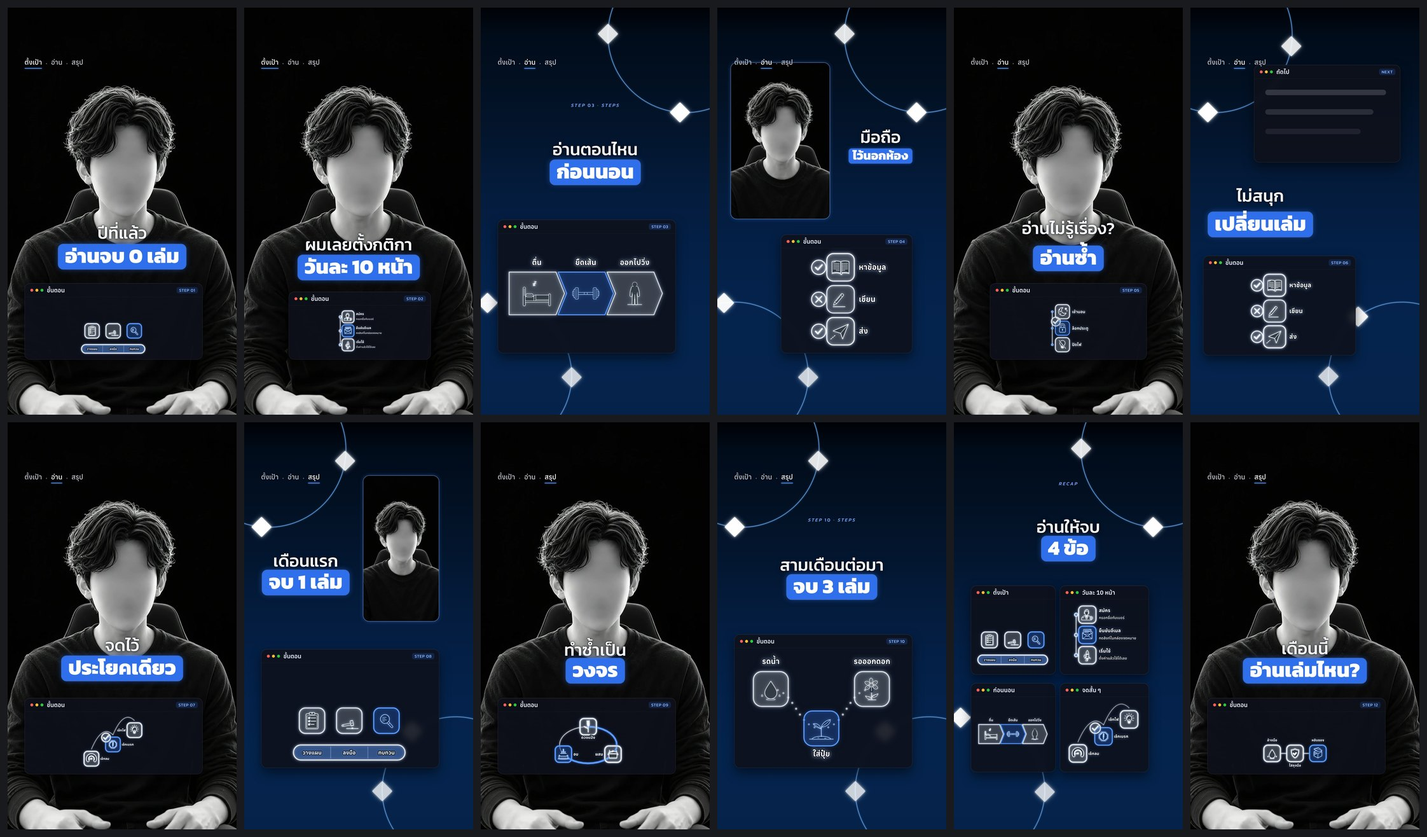
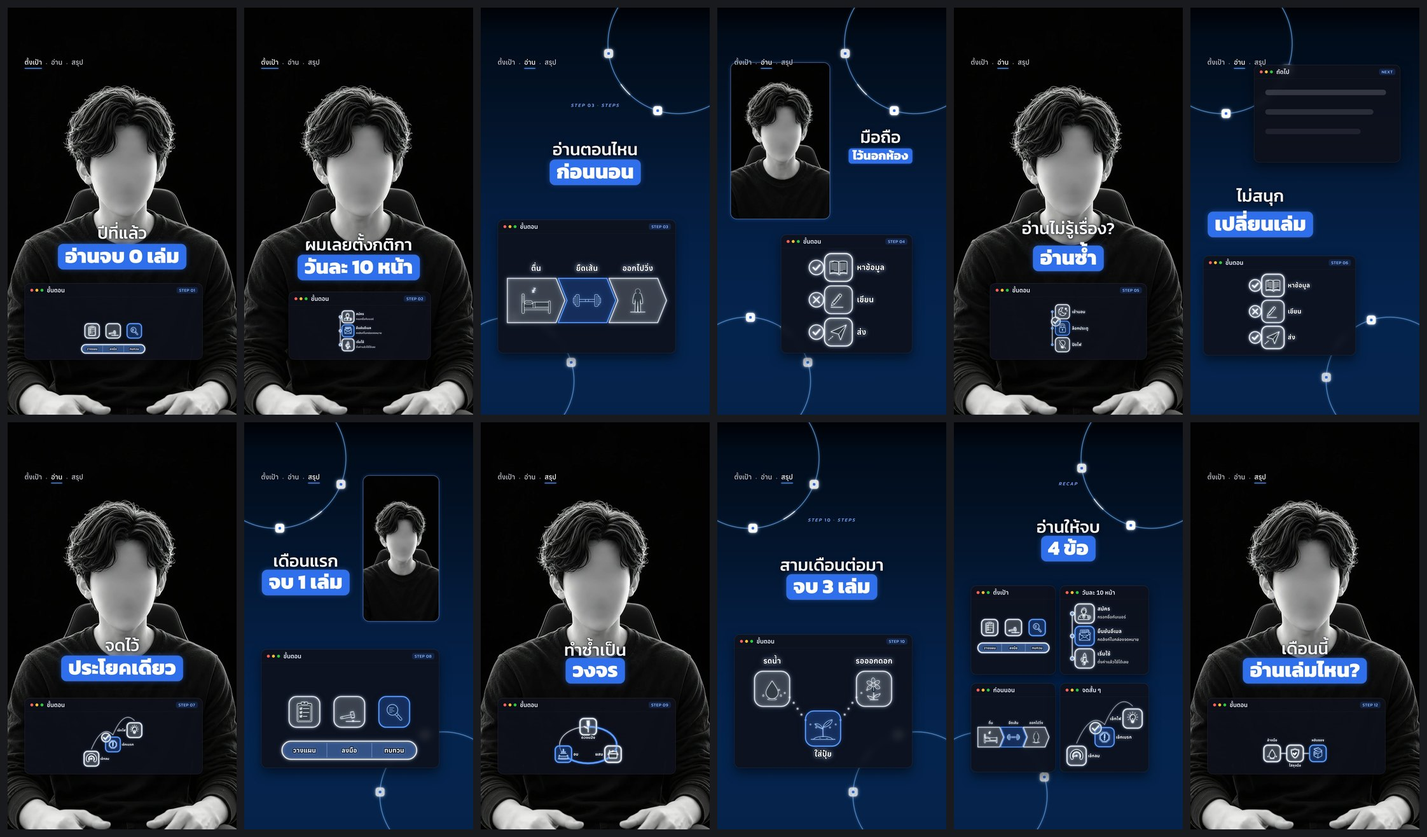
CutPack window style: our own rings, one line, a little faster
Friend copied the background picture from elsewhere and asked for new
rings ("ดีไซน์วงแหวนใหม่หน่อย"), then for a single line like before.
The black-to-navy gradient stays; each corner now has one glowing blue
ring with two white app-chips (blue centre, upright while turning) and
a short running light instead of the copied diamonds. Spin 1.5 -> 2.25
degrees a second (WIN.spin). Docs and library stills updated.

Claude-Session: https://claude.ai/code/session_01S8EfUBVsEbs9J3Zi2UQ7cq

diff --git a/cutpack/engine/uni/styles/window.js b/cutpack/engine/uni/styles/window.js
@@ -7,8 +7,8 @@
    1 frame    one of 12 layouts (WIN.layouts, named after Friend's shots): the speaker full screen with an app window at the hands,
               or a deep-blue screen with a big window, the speaker in a rounded frame beside a window, two windows in cascade, a recap
               of four. Between pictures the speaker talks with the words at the chest. A chapter bar sits top left on every shot.
-   2 surface  screens: near-black to navy, two blue arcs each carrying two big glowing white diamonds (Friend's background picture,
-              2026-11-18); the pictures sit in dark app windows (three dots, a title, a blue tag)
+   2 surface  screens: near-black to navy (Friend's background picture, 2026-11-18) with our own turning rings in two corners (a
+              glowing ring with white app-chips and a running light); the pictures sit in dark app windows (three dots, a title, a tag)
    3 drawing  the glow-line pictures: white lines, the lit part a blue outline (no solid fill), blue light
    4 colours  deep blue · near-black windows · white · one blue (#2F6FEB)
    5 words    a white lead (Kanit 500) + the key word white in a blue pill (Kanit 800); on screens a small spaced label above
@@ -50,15 +50,17 @@ const WIN = {
   en: {B01: 'NUMBER', B02: 'CHANGE', B03: 'COMPARE', B04: 'STEPS', B05: 'RIGHT WAY', B06: 'QUESTION', B07: 'WARNING', B08: 'GOAL',
     B09: 'TIMELINE', B10: 'PEOPLE', B11: 'MESSAGE', B12: 'CAUSE', B13: 'TIP', B14: 'REMEMBER', B15: 'YOUR TURN', B16: 'MEANING',
     B17: 'LIST', B18: 'STORY', B19: 'FEELING', B20: 'TOGETHER', B21: 'PLACE'},
-  /* the screens' background (Friend 2026-11-18, a picture of it: "ผมอยากได้ background แบบนี้"), measured on that picture (1080 × 1920):
-     near-black at the top to deep navy at the bottom, two thin blue arcs, each with two big white glowing diamonds sitting ON it.
-     Each arc [cx, cy, r, [angles of its diamonds, degrees]]; 0 = the picture as sent, 1 = the same mirrored (for screens whose frame
-     or back window covers the top right; its lower diamonds sit further along their arc, out of TikTok's buttons column). The arcs
-     turn very slowly, so the diamonds slide along them (the lower arc turns back, away from the buttons). */
+  /* the screens' background. The gradient was measured on a picture Friend sent (2026-11-18: "ผมอยากได้ background แบบนี้"): near-black
+     at the top to deep navy at the bottom. The rings are our own (Friend: "รูปนี้ผมไปก๊อปเขามาผมก็เลยอยากให้คุณดีไซน์วงแหวนใหม่หน่อย"):
+     per corner one glowing blue ring (one line, as before: "อยากให้มันเป็นเส้นเดียวมันอันเก่า") carrying two white app-chips (rounded
+     squares, as the windows) and a short running light. Each ring {cx, cy, r, chips: [angles], light: angle, dir}; 0 = top
+     right + bottom left, 1 = mirrored (screens whose frame or back window covers the top right; its lower chips sit left of TikTok's
+     buttons, x 920, and turn away from them). */
   decor: [
-    [[966, 129, 368, [176.2, 89.5]], [82, 1736, 349, [-93.8, 5.8]]],
-    [[114, 129, 368, [3.8, 90.5]], [998, 1736, 349, [238, 184]]],      // (its lower diamonds moved along the arc, left of the buttons: x 920)
+    [{cx: 930, cy: 170, r: 330, chips: [165, 100], light: 132, dir: 1}, {cx: 140, cy: 1760, r: 300, chips: [-80, -10], light: -45, dir: -1}],
+    [{cx: 150, cy: 170, r: 330, chips: [15, 80], light: 48, dir: 1}, {cx: 940, cy: 1760, r: 300, chips: [260, 190], light: 225, dir: -1}],
   ],
+  spin: 2.25,                                   // degrees a second (Friend: "หมุนให้เร็วกว่านี้อีกนิดนึง ... แค่เร็วกว่าเดิมนิดเดียว": 1.5 → 2.25)
 };
 const winInner = ([, , w, h]) => [22, 76, w - 44, h - 98];        // the picture inside a window (under its 64-high title bar)
 
@@ -94,8 +96,11 @@ STYLE('window', {
 .w-root{position:absolute;inset:0;--ink:#F2F6FC;--ac:#5B9BFF;--lw:5;--sd:#F2F6FC;--fl:rgba(14,18,28,.88);--text:#F2F6FC}
 .w-screen{background:linear-gradient(180deg,#000206 0%,#010c1a 7%,#021022 19%,#03152d 31%,#041b3b 44%,#041f45 56%,#04224b 69%,#05244d 81%,#05224a 100%);overflow:hidden}
 .w-arc{position:absolute}
-.w-ring{position:absolute;inset:0;border-radius:50%;border:4px solid #4F86C4;box-shadow:0 0 6px rgba(79,134,196,.55),inset 0 0 6px rgba(79,134,196,.45)}
-.w-dia{position:absolute;width:68px;height:68px;rotate:45deg;background:#fff;border-radius:4px;box-shadow:0 0 8px rgba(255,255,255,.95),0 0 24px rgba(215,232,255,.55)}
+.w-arc svg{position:absolute;inset:0;overflow:visible}
+.w-main{filter:drop-shadow(0 0 5px rgba(79,134,196,.75))}
+.w-light{filter:drop-shadow(0 0 6px rgba(225,238,255,.95))}
+.w-chip{position:absolute;width:42px;height:42px;background:#fff;border-radius:12px;box-shadow:0 0 8px rgba(255,255,255,.9),0 0 26px rgba(150,195,255,.6)}
+.w-chip::after{content:"";position:absolute;left:15px;top:15px;width:12px;height:12px;border-radius:4px;background:#2F6FEB}
 .w-win{position:absolute;border-radius:26px;background:rgba(13,17,27,.9);border:1.5px solid rgba(255,255,255,.14);
   box-shadow:0 22px 50px rgba(0,0,0,.5),inset 0 1px 0 rgba(255,255,255,.06);-webkit-backdrop-filter:blur(14px);backdrop-filter:blur(14px);overflow:hidden}
 .w-bar{position:absolute;left:0;right:0;top:0;height:64px;border-bottom:1px solid rgba(255,255,255,.06)}
@@ -169,14 +174,18 @@ STYLE('window', {
     const box = ([x, y, w, h], parent = root) => div(`left:${x}px;top:${y}px;width:${w}px;height:${h}px`, parent);
     if (L.screen) {
       const D = WIN.decor[L.decor ?? 0], long = Math.max(1, t1 - t0);
-      D.forEach(([cx, cy, r, angs], j) => {
-        const g = box([cx - r, cy - r, 2 * r, 2 * r]); g.className = 'w-arc'; div('', g).className = 'w-ring';
-        const spin = (j ? -1 : 1) * 1.5 * long;              // 1.5 degrees a second: the diamonds slide ~10 px a second along the arc
-        A(g, [{transform: 'rotate(0deg)'}, {transform: `rotate(${spin}deg)`}], t0 - .05, long + .4);
-        angs.forEach((ang, k) => { const q = ang * Math.PI / 180, d = div(`left:${r + (r - 2) * Math.cos(q) - 34}px;top:${r + (r - 2) * Math.sin(q) - 34}px`, g);
-          d.className = 'w-dia';
-          A(d, [{transform: 'rotate(0deg)'}, {transform: `rotate(${-spin}deg)`}], t0 - .05, long + .4);    // stays a diamond while its arc turns
-          A(d, [{opacity: 1}, {opacity: .62}, {opacity: 1}], t0 + (2 * j + k) * .55, 2.6, {e: 'ease-in-out', it: 4}); });   // the picture: two lit, two dimmer
+      D.forEach(({cx, cy, r, chips, light, dir}, j) => {
+        const R = r + 20, sz = [cx - R, cy - R, 2 * R, 2 * R], spin = dir * WIN.spin * long, rad = a => a * Math.PI / 180;
+        const turn = (el, deg) => A(el, [{transform: 'rotate(0deg)'}, {transform: `rotate(${deg}deg)`}], t0 - .05, long + .4);
+        /* one ring (Friend: "อยากให้มันเป็นเส้นเดียวมันอันเก่า"), its running light and its chips */
+        const g = box(sz), len = 2 * Math.PI * r, arc = 64; g.className = 'w-arc';
+        g.innerHTML = `<svg width="${2 * R}" height="${2 * R}"><circle class="w-main" cx="${R}" cy="${R}" r="${r}" fill="none" stroke="#4F86C4" stroke-width="3.5"/>`
+          + `<circle class="w-light" cx="${R}" cy="${R}" r="${r}" fill="none" stroke="#EAF2FF" stroke-width="4" stroke-linecap="round" stroke-dasharray="${arc} ${len}"`
+          + ` transform="rotate(${light - arc / len * 180} ${R} ${R})"/></svg>`;
+        turn(g, spin);
+        chips.forEach((ang, k) => { const c = div(`left:${R + r * Math.cos(rad(ang)) - 21}px;top:${R + r * Math.sin(rad(ang)) - 21}px`, g); c.className = 'w-chip';
+          turn(c, -spin);                                                     // stays upright while its ring turns
+          A(c, [{opacity: 1}, {opacity: .6}, {opacity: 1}], t0 + (2 * j + k) * .55, 2.6, {e: 'ease-in-out', it: 4}); });
       });
       A(root, [{opacity: 0, filter: 'blur(14px)', transform: 'scale(1.03)'}, {opacity: 1, filter: 'blur(0)', transform: 'none'}], t0 - .04, .35, {e: EASE.smooth});
       sfx('whoosh', t0 - .1, -20);

diff --git a/cutpack/DECISIONS.md b/cutpack/DECISIONS.md
@@ -274,6 +274,8 @@
       - **สไตล์ที่ 2 (Friend 2026-11-18 ส่งรูป 12 ช็อตสีเขียวมะนาว: การ์ดกระจกมืดมีขีดจับด้านบน · คำเด่นเขียวมะนาว · คำนำมีคำท้ายเป็นเขียว): "เริ่มทำสไตล์นี้ได้แต่ไม่ต้องทดสอบกับคลิปเดิมของผมนะถ้าทำเสร็จเดี๋ยวผมจะมีคลิปใหม่ให้ทดสอบ"** → ทำสไตล์ใหม่ (ชื่อในโค้ด `lime`) ลอกรูป 100% ทุกช็อต ภายใต้กฎเดิม (โซนปุ่ม ขอบล่าง 1660 · กรอบ/ภาพไม่ขึ้นไปใต้แถบค้นหา · ซับกลาง · ชุดแม่แบบเป็นหลัก · สุ่มทุกรอบ) · ส่งภาพนิ่งเทียบ ไม่ทดสอบกับคลิปเดิม · รอคลิปใหม่จาก Friend
       - **สไตล์ที่ 3 (Friend 2026-11-18 ส่งรูป 12 ช็อตโทนน้ำเงิน: หน้าต่างแอปมีจุดสามสี · คำเด่นในแคปซูลน้ำเงิน · แถบบท "ตั้งเป้า · อ่าน · สรุป" มุมซ้ายบน · พื้นน้ำเงินมีเส้นโค้งกับประกายเพชร): "สไตล์ต่อไปครับ"** → ทำดราฟแรก (ชื่อในโค้ด `window`) ตามวิธีที่ตกลง (ภาพนิ่ง 12 ช็อต + ตัวตรวจ + คลิปจริง 1 รอบด้วยคลิปที่ Friend ส่งแล้ว)
         - **พื้นหลังจอน้ำเงิน (Friend 2026-11-18 ส่งภาพหน้าจอพื้นหลังจากแอปอื่น: "ผมอยากได้ background แบบนี้")** → วัดจากรูปนั้น: ไล่สีจากเกือบดำด้านบน (#000206) เป็นกรมท่าด้านล่าง (#05244d) · เส้นโค้งฟ้า 2 เส้น หนา 4 (#4F86C4) มุมขวาบนกับซ้ายล่าง · เพชรขาวเรืองแสงใหญ่ (กว้าง 68) วางอยู่บนเส้นโค้ง เส้นละ 2 เม็ด · เส้นโค้งหมุนช้ามาก (1.5 องศาต่อวินาที) ให้เพชรเลื่อนไปตามเส้น และกะพริบเบา ๆ · จอที่มีกรอบหน้าคนหรือหน้าต่างหลังอยู่ขวาบน ใช้ภาพเดียวกันกลับซ้ายขวา · แทนเส้นโค้งจางกับเพชรเล็กแบบเดิม
+        - **Friend 2026-11-18 ส่งรูปพื้นหลังเดิมอีกครั้ง: "รูปนี้ผมไปก๊อปเขามาผมก็เลยอยากให้คุณดีไซน์วงแหวนใหม่หน่อยและอยากให้มันหมุนให้เร็วกว่านี้อีกนิดนึงแต่ไม่ต้องเร็วมากนะแค่เร็วกว่าเดิมนิดเดียว"** → พื้นไล่สีคงไว้ · วงแหวนออกแบบใหม่ของเราเอง ไม่ลอกรูปนั้น: วงหลักเส้นฟ้าเรือง + วงเส้นประด้านในหมุนสวนทาง + วงจางด้านนอก · บนวงหลักเป็นชิปสี่เหลี่ยมขอบมนสีขาวเรืองแสง (เข้ากับหน้าต่างแอป) กับแสงวิ่งสั้น ๆ แทนเพชร · หมุนจาก 1.5 เป็น 2.25 องศาต่อวินาที (เร็วขึ้นครึ่งเท่า)
+        - **Friend 2026-11-18 ดูภาพวงแหวนแบบใหม่ (มีวงเส้นประด้านในกับวงจางด้านนอก): "อยากให้มันเป็นเส้นเดียวมันอันเก่า"** → เหลือวงแหวนเส้นเดียวต่อมุมเหมือนแบบเก่า · ชิปสี่เหลี่ยมขอบมนกับแสงวิ่งบนเส้นคงไว้ (แทนเพชรที่ลอกมา) · ความเร็ว 2.25 องศาต่อวินาทีคงไว้
       - **ดราฟแรกก่อน แล้วค่อยเก็บรายละเอียด (Friend 2026-11-18 หลังได้คลิปเขียวมะนาว: "ผมคิดว่าผมจะเก็บอันนี้ไว้เป็นดราฟแรก แล้วทำสไตล์ต่อไปเลยพอครบทุกสไตล์ที่อยากทำแล้วก็ค่อยกลับมาแก้รายละเอียดเล็กๆน้อยๆของสไตล์นั้นๆ" · Claude เห็นด้วย และเสนอด่านขั้นต่ำ + จดรายการค้าง · Friend: "บันทึก 2 สไตล์ ที่ทำไว้แล้ว ไว้ด้วยนะครับเผื่อคุณลืมบันทึก ตั้งชื่อให้มันด้วย")** → ทะเบียนสไตล์ `style-rules/README.md`: ชื่อ สถานะ ภาพนิ่ง เอกสาร รายการค้างของแต่ละสไตล์ · ชื่อ: สไตล์ 1 **นีออนฟ้า (Neon Blue, `neon`)** ผ่าน · สไตล์ 2 **เขียวมะนาว (Lime Glass, `lime`)** ดราฟแรก · ภาพนิ่ง 12 ช็อตของเรา `library/styles/01_neon_draft1.jpg` `02_lime_draft1.jpg` · ด่านขั้นต่ำของดราฟแรก: ภาพนิ่ง 12 ช็อตเทียบรูป + ตัวตรวจผ่าน + คลิปจริงผ่านระบบ 1 รอบ (ใช้คลิปที่ Friend ส่งแล้วได้)
       - **ทดสอบเขียวมะนาวกับคลิปใหม่ (Friend 2026-11-18 ส่งลิงก์ Drive `1hIaow6BMhMz5g8LoOSUWHFVvC6JoDfNH` + บทพร้อมเวลา 90 วลี "00:00 เวลาลูกค้า" … "00:41 ให้ถูกจุด"): "พยายามทำให้เหมือนต้นแบบที่สุดเท่าที่จะเป็นไปได้"** → รันคลิปผ่านระบบเป็นสไตล์เขียวมะนาว (โมเดลเดียวกับในระบบ: Haiku ตัดซับ · Sonnet low วางภาพ · Haiku รอบแก้) ให้ออกมาใกล้รูปต้นแบบที่สุด ภายใต้กฎเดิม · คลิปและบทอยู่ใน scratchpad เท่านั้น
       - **ภาพใช้ชุดแม่แบบเป็นหลักทุกสไตล์ (Friend 2026-11-18: "motion graphic ผมอยากให้ใช้ template ชุดฐานเป็นหลักเลยนะครับ ไม่ว่าจะสไตล์ไหนก็ตาม ส่วนหมวดไหนที่ยังไม่มี template ชุดฐานก็ใช้อันเดิมไปก่อน")** → แทนข้อ "ทั้งสองชุด ระบบเลือกสลับกันไป" (2026-11-12): หมวดที่มีชุดแม่แบบ (ตอนนี้ B01–B12) ใช้ชุดแม่แบบอย่างเดียว · หมวดที่ยังไม่มี (B13–B21) ใช้ชุดหมวดไปก่อน · เมื่อชุดแม่แบบหมวดใหม่เสร็จ (เช่น B13T) ระบบใช้แทนเองทันที (หลังรัน `glow/index.js` + `glow/shapes.js`)

diff --git a/cutpack/HANDOFF.md b/cutpack/HANDOFF.md
@@ -27,7 +27,7 @@ git checkout -B <สาขาที่ session ใหม่ได้รับ> o
   - รูปทั้ง 12 ของ Friend ไม่อยู่ใน repo (LESSONS 30) อยู่ในแชทเท่านั้น · ถ้า session ใหม่ต้องใช้ ให้ขอ Friend ส่งใหม่
   - **ยังไม่เปิด PR (Friend 2026-11-18: "เดี๋ยวทำสไตล์อื่นๆไปก่อนดีกว่าแล้วถ้าผมอยากจะ PR เดี๋ยวผมบอก")** · งานทั้งหมดอยู่สาขา `ccr-e62fe584-589vj4` (ยังไม่รวมเข้าสาขาหลัก)
   - **ทะเบียนสไตล์: `style-rules/README.md`** (ชื่อ สถานะ ภาพนิ่ง รายการค้าง · วิธีทำงาน: ดราฟแรกทุกสไตล์ก่อน แล้วค่อยกลับมาเก็บรายละเอียด) · 1 นีออนฟ้า `neon` ผ่าน · 2 เขียวมะนาว `lime` ดราฟแรก · 3 หน้าต่างแอป `window` ดราฟแรก · ถัดไป: รอ Friend ส่งรูปสไตล์ที่ 4
-  - **สไตล์ที่ 3 "หน้าต่างแอป" (`styles/window.js`, Friend ส่งรูป 2026-11-18: "สไตล์ต่อไปครับ") ดราฟแรก ส่งภาพเทียบ + คลิปจริงแล้ว รอ Friend ดู:** เอกสาร `style-rules/window.md` · ภาพอยู่ในหน้าต่างแอป (จุดสามสี ชื่อหน้าต่าง = ชื่อหมวด ป้าย STEP = ลำดับภาพ) · คำเด่นในแคปซูลน้ำเงิน · แถบบทมุมซ้ายบน y 236 (ชื่อ = หมวดของภาพแรกในแต่ละ 1 ใน 3 ของคลิป) · พื้นหลังจอน้ำเงินตามรูปที่ Friend ส่งแยก ("ผมอยากได้ background แบบนี้": ไล่ดำ→กรมท่า เส้นโค้ง 2 เส้นมีเพชร 2 เม็ด หมุนช้า) · `GLASSY.window` (`outlineLit` คนตัวเทาฟ้า `#7586A3`) · bridge: `glowFit` ภาพตอนจบเต็มกล่องเหมือนเดิม แต่ถ้าช่วงที่ขยับล้นกล่อง (เผื่อ 12 px) ใช้กล่องของทั้งช่วงแทน (`glowMotionBox` เริ่มวัดหลังภาพเข้า 0.4 วินาที ขยายไม่เกิน 20% ต่อด้าน · เดิมวัดแค่ตอนจบ วงกลม B08T pinlock เลยโดนขอบตัด · ลองวัดทุกภาพตลอดช่วงแล้วภาพเฉลี่ยเล็กลงจาก 13% เป็น 10% จึงหดเฉพาะภาพที่ล้นจริง) · กล่องสีเน้นโปร่ง (LIT2) นับเป็นชิ้นติดไฟ และชิ้นติดไฟซ้อนบนชิ้นติดไฟ = ไอคอนฟ้าอ่อน (เฉพาะสไตล์ `outlineLit`) · คลิปจริง seed 84893 `…/scratchpad/lclip/st_window/`
+  - **สไตล์ที่ 3 "หน้าต่างแอป" (`styles/window.js`, Friend ส่งรูป 2026-11-18: "สไตล์ต่อไปครับ") ดราฟแรก ส่งภาพเทียบ + คลิปจริงแล้ว รอ Friend ดู:** เอกสาร `style-rules/window.md` · ภาพอยู่ในหน้าต่างแอป (จุดสามสี ชื่อหน้าต่าง = ชื่อหมวด ป้าย STEP = ลำดับภาพ) · คำเด่นในแคปซูลน้ำเงิน · แถบบทมุมซ้ายบน y 236 (ชื่อ = หมวดของภาพแรกในแต่ละ 1 ใน 3 ของคลิป) · พื้นหลังจอน้ำเงิน: ไล่ดำ→กรมท่าวัดจากรูปที่ Friend ส่งแยก ("ผมอยากได้ background แบบนี้") · วงแหวนออกแบบเอง เพราะรูปนั้น Friend ก๊อปมา ("ดีไซน์วงแหวนใหม่หน่อย" · "อยากให้มันเป็นเส้นเดียวมันอันเก่า"): มุมละ 1 เส้น ชิปขาว 2 ชิ้น แสงวิ่ง หมุน 2.25 องศาต่อวินาที (`WIN.decor` `WIN.spin`) · `GLASSY.window` (`outlineLit` คนตัวเทาฟ้า `#7586A3`) · bridge: `glowFit` ภาพตอนจบเต็มกล่องเหมือนเดิม แต่ถ้าช่วงที่ขยับล้นกล่อง (เผื่อ 12 px) ใช้กล่องของทั้งช่วงแทน (`glowMotionBox` เริ่มวัดหลังภาพเข้า 0.4 วินาที ขยายไม่เกิน 20% ต่อด้าน · เดิมวัดแค่ตอนจบ วงกลม B08T pinlock เลยโดนขอบตัด · ลองวัดทุกภาพตลอดช่วงแล้วภาพเฉลี่ยเล็กลงจาก 13% เป็น 10% จึงหดเฉพาะภาพที่ล้นจริง) · กล่องสีเน้นโปร่ง (LIT2) นับเป็นชิ้นติดไฟ และชิ้นติดไฟซ้อนบนชิ้นติดไฟ = ไอคอนฟ้าอ่อน (เฉพาะสไตล์ `outlineLit`) · คลิปจริง seed 84893 `…/scratchpad/lclip/st_window/`
   - **เขียวมะนาวกับคลิปจริงของ Friend (2026-11-18, "พยายามทำให้เหมือนต้นแบบที่สุด", `…/scratchpad/lclip/`) ส่งคลิปแล้ว รอ Friend ดู:** seed 939277 · `limeFit` เลื่อนจอบนตัวคนลงใต้คาง · ภาพอยู่ในการ์ด · แสงขาว `glow: 1.7` · แก้: จอแบ่งครึ่งโผล่ก่อนเวลา (วิดีโอซ้อน 2 หน้า) · รูปทรงขาวทึบใหญ่ → ตัวเข้ม · คนเป็นเส้นขาวบนตัวเข้ม · `tools/picture_sizes.js` ไม่ล้มที่เฟรมท้าย
   - **สไตล์ที่ 2 "เขียวมะนาว" (`styles/lime.js`, Friend ส่งรูป 2026-11-18) ภาพนิ่ง 12 ช็อตส่งแล้ว รอ Friend ดู · Friend จะส่งคลิปใหม่มาทดสอบ (ห้ามใช้คลิปเดิม):** เอกสาร `style-rules/lime.md` · ส่วนกลางของทุกสไตล์ย้ายไป `styles/common.js` (build.py โหลดก่อนสไตล์ · `cpRand cpFaceBox cpFace cpInset cpLine cpSafeCheck styleSafeCheck`) · หน้าตากระจกแยกตามสไตล์ใน bridge `GLASSY` (neon / lime) · lime: ชิ้นติดไฟเป็นขอบเขียว (`outlineLit` + `cpGlow` ทำแสงจากส่วนสว่างเท่านั้น) · แสงขาวแรงขึ้น `glow: 1.35` · `clip_plan.py` RULES `lime` (ค่าเดา) · `clip_all_styles.sh` ค่าเริ่ม neon lime
   - **ภาพใช้ชุดแม่แบบเป็นหลักทุกสไตล์ (Friend 2026-11-18, DECISIONS ข้อ 3):** `tools/pick.js` ข้อ 1 = ชุดแม่แบบถ้าหมวดมี (B01–B12) ไม่มีก็ชุดหมวด (B13–B21) · ชุดแม่แบบหมวดใหม่เข้ามาเมื่อไร รัน `glow/index.js` + `glow/shapes.js` แล้วระบบใช้เอง

diff --git a/cutpack/style-rules/README.md b/cutpack/style-rules/README.md
@@ -19,7 +19,7 @@ Friend ยกเลิกสไตล์เก่าทั้ง 8 แบบ แ
 |---|---|---|---|---|---|---|
 | 1 | **นีออนฟ้า** (Neon Blue) | `neon` | รูปที่ 2 ของชุด 12 รูป (2026-11-17) · พื้นกรมท่า เส้นขาวเรือง คำเด่นขาวไล่ฟ้า | **ผ่าน** (Friend 2026-11-18: "ผ่านครับ") · ดราฟแรก | `library/styles/01_neon_draft1.jpg` | `neon.md` |
 | 2 | **เขียวมะนาว** (Lime Glass) | `lime` | รูปการ์ดกระจกสีเขียวมะนาว (2026-11-18) · การ์ดกระจกมืดมีขีดจับ คำเด่นเขียวมะนาว | **ดราฟแรก** (Friend 2026-11-18: "จะเก็บอันนี้ไว้เป็นดราฟแรก") | `library/styles/02_lime_draft1.jpg` | `lime.md` |
-| 3 | **หน้าต่างแอป** (App Window) | `window` | รูป 12 ช็อตโทนน้ำเงิน (2026-11-18) · ภาพในหน้าต่างแอปจุดสามสี คำเด่นในแคปซูลน้ำเงิน แถบบทมุมซ้ายบน · พื้นหลังจอน้ำเงินจากรูปที่ Friend ส่งแยก (เส้นโค้งกับเพชรเรืองแสง) | **ดราฟแรก** (2026-11-18 รอ Friend ดู) | `library/styles/03_window_draft1.jpg` | `window.md` |
+| 3 | **หน้าต่างแอป** (App Window) | `window` | รูป 12 ช็อตโทนน้ำเงิน (2026-11-18) · ภาพในหน้าต่างแอปจุดสามสี คำเด่นในแคปซูลน้ำเงิน แถบบทมุมซ้ายบน · พื้นไล่สีจากรูปที่ Friend ส่งแยก วงแหวนเส้นเดียวมีชิปเป็นของเราเอง | **ดราฟแรก** (2026-11-18 รอ Friend ดู) | `library/styles/03_window_draft1.jpg` | `window.md` |
 
 รูปของ Friend และคลิปทดสอบไม่อยู่ใน repo (LESSONS 30) · ถ้า session ใหม่ต้องใช้ ให้ขอ Friend ส่งใหม่
 
@@ -41,7 +41,7 @@ Friend ยกเลิกสไตล์เก่าทั้ง 8 แบบ แ
 
 **หน้าต่างแอป**
 - ภาพเฉลี่ยในคลิปจริงยังเล็ก (ดูตัวเลขใน `window.md`) หน้าต่างบนจอคนเต็มจอใช้ไม่ได้เมื่อหน้าอยู่ต่ำ (คลิปทดสอบใช้แต่จอน้ำเงิน)
-- เพชรของพื้นหลังบางเม็ดอยู่หลังหน้าต่างหรือแถบ Following | For You ของ TikTok (เป็นของตกแต่ง ไม่ใช่เนื้อหา)
+- ชิปของวงแหวนบางชิ้นอยู่หลังหน้าต่าง (เป็นของตกแต่ง ไม่ใช่เนื้อหา)
 - หน้าต่างหลังของจอหน้าต่างซ้อนเป็นแถบจาง ๆ (รูปของ Friend เป็นภาพตั๋วกับรถไฟ)
 - ป้ายเล็กบนจอเป็นภาษาอังกฤษจากหมวด (`STEP 03 · STEPS`) รูปของ Friend เป็นคำตามเรื่อง (`STEP 2 · ROUTINE`)
 - ภาพบางแบบก่อนถึงคำสำคัญตั้งใจจางไว้ ตัวตรวจฟ้องถ้าถ่ายภาพนิ่งช่วงนั้น (หลังคำสำคัญผ่าน)

diff --git a/cutpack/style-rules/window.md b/cutpack/style-rules/window.md
@@ -6,7 +6,7 @@
 
 ## หน้าตา (ลอกจากรูปของ Friend)
 - ภาพทุกภาพอยู่ใน **หน้าต่างแอปสีเกือบดำ** มีจุดสามสี (แดง เหลือง เขียว) ชื่อหน้าต่าง และป้าย `STEP NN` สีฟ้า
-- **จอน้ำเงิน** ใช้พื้นหลังตามรูปที่ Friend ส่งแยกมา (2026-11-18: "ผมอยากได้ background แบบนี้"): ไล่สีจากเกือบดำด้านบนเป็นกรมท่าด้านล่าง · เส้นโค้งฟ้า 2 เส้น (ขวาบน ซ้ายล่าง) · บนเส้นมีเพชรขาวเรืองแสงเม็ดใหญ่ เส้นละ 2 เม็ด · เส้นโค้งหมุนช้ามากให้เพชรเลื่อนไปตามเส้น และกะพริบเบา ๆ · จอที่กรอบหน้าคนหรือหน้าต่างหลังอยู่ขวาบน ใช้แบบกลับซ้ายขวา (เพชรล่างเลื่อนไปทางซ้าย ไม่อยู่ใต้ปุ่ม TikTok)
+- **จอน้ำเงิน**: พื้นไล่สีวัดจากรูปที่ Friend ส่งแยกมา (2026-11-18: "ผมอยากได้ background แบบนี้") จากเกือบดำด้านบนเป็นกรมท่าด้านล่าง · วงแหวนเป็นของเราเอง ไม่ลอกรูปนั้น (Friend: "รูปนี้ผมไปก๊อปเขามาผมก็เลยอยากให้คุณดีไซน์วงแหวนใหม่หน่อย" · "อยากให้มันเป็นเส้นเดียวมันอันเก่า"): มุมละ 1 วง เส้นฟ้าเรือง มีชิปสี่เหลี่ยมขอบมนสีขาว 2 ชิ้น (จุดน้ำเงินตรงกลาง เข้ากับหน้าต่างแอป) กับแสงวิ่งสั้น ๆ บนเส้น · หมุน 2.25 องศาต่อวินาที ชิปตั้งตรงตลอดและกะพริบเบา ๆ · จอที่กรอบหน้าคนหรือหน้าต่างหลังอยู่ขวาบน ใช้แบบกลับซ้ายขวา (ชิปล่างอยู่ซ้ายของปุ่ม TikTok และหมุนออกจากปุ่ม)
 - ภาพ glow-line แบบกระจกเดียวกับนีออน (`glow/bridge.js` `GLASSY.window`): เส้นขาวเรืองฟ้า ชิ้นที่ติดไฟเป็น **ขอบฟ้า ไม่ถมทึบ** (`outlineLit`) ไอคอนฟ้าอ่อน · คนในภาพตัวเทาฟ้า `#7586A3` ขอบขาว (เทาเข้มแบบเขียวมะนาวมองไม่เห็นในหน้าต่างดำ)
 - ซับ: คำนำขาว Kanit 500 · คำเด่นขาวใน **แคปซูลน้ำเงิน** `#2F6FEB` Kanit 800 · บนจอน้ำเงินมีป้ายเล็กเว้นช่องเหนือคำ `STEP NN · หมวดภาษาอังกฤษ`
 - **แถบบท** มุมซ้ายบน (y 236 ใต้แถบ Following | For You) ชื่อบท 3 ชื่อ ขีดเส้นใต้บทที่กำลังพูด
